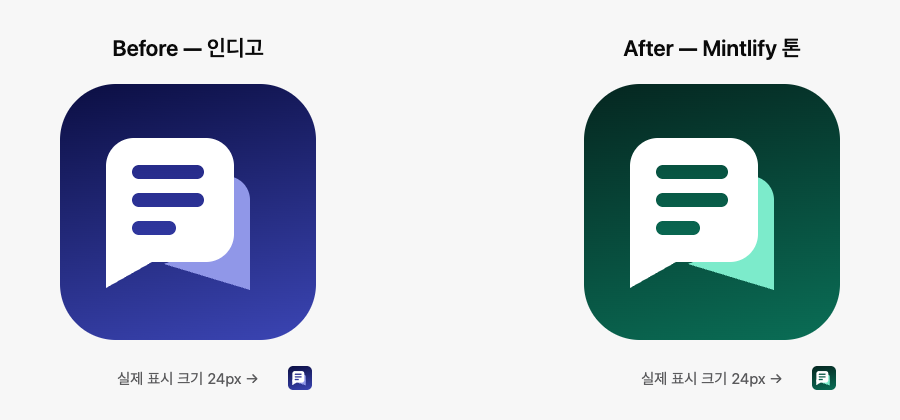
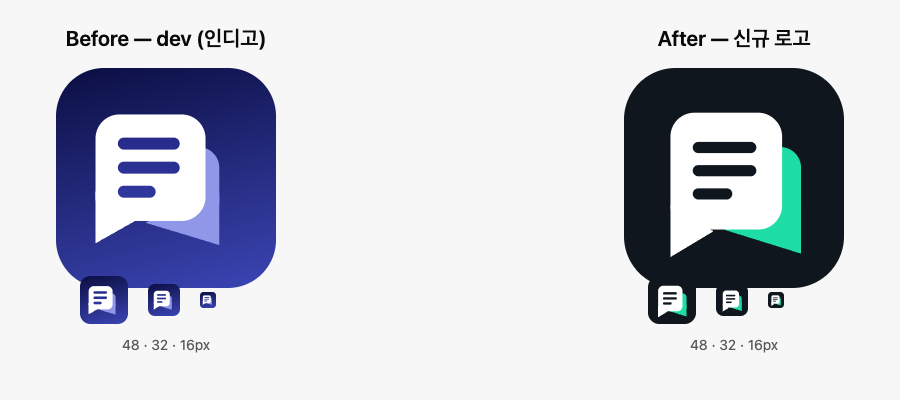
feat(fe): 브랜드 마크를 새 로고 시안에 맞춘다
앞 커밋의 딥그린 그라디언트 대신 시안대로 **평면 다크 잉크 + 선명한
에메랄드**로 간다. 시안 이미지에서 픽셀을 직접 샘플링해 값을 뽑았다.

- 바탕 `#0F161E` 평면 — 그라디언트를 걷어냈다. 16px에서 그라디언트는
  단색으로 뭉개지면서 색만 탁해진다.
- 뒤 말풍선 `#1DDCA5` — 연한 민트에서 선명한 에메랄드로.
- 텍스트 바를 바탕과 같은 잉크로. 시안에서 바는 녹색이 아니라 잉크다.
- 모서리 반경 28 → 30.

지오메트리도 시안에 맞췄다. 시안을 가로·세로로 스캔해 128 viewBox 좌표로
환산한 뒤, 내 렌더를 같은 방법으로 스캔해 행 단위로 대조하며 좁혔다.

- 흰 말풍선 x23 w64 → x27 w65, y27 h62 → y26 h68 (여백이 줄고 커진다)
- 초록 말풍선 오른쪽 끝 95 → 103, 꼬리도 그만큼 길게
- 텍스트 바 3개를 새 말풍선 안쪽으로 재배치, 두께 7 → 6.5

래스터 세 벌(`favicon.ico` 16/32/48, `apple-touch-icon.png` 180)도 같이
다시 뽑았다.

검증: build 통과 / lint 0 errors(무관한 기존 warning 1) / test 317/317
(`--no-file-parallelism`). 48·32·16px 축소본에서 형태 유지 확인.

Claude-Session: https://claude.ai/code/session_01Y7Nj8oiL699mPPNcQG7MMC

diff --git a/fe/src/shared/ui/brand-mark.tsx b/fe/src/shared/ui/brand-mark.tsx
@@ -3,11 +3,13 @@
  * Same geometry as `public/favicon.svg`; keep the two in sync.
  *
  * Brand-fixed colors, not design tokens: the mark must read identically
- * wherever it is placed, so it does not follow surface/text semantics.
- * The hues are the Mintlify-tone family (deep forest -> mint), but they are
- * written out here on purpose — a token change must not silently repaint
- * the app icon.
+ * wherever it is placed, so it does not follow surface/text semantics —
+ * a token change must not silently repaint the app icon. Flat fills, no
+ * gradients: the mark has to survive being drawn at 16px.
  */
+const INK = "#0F161E";
+const MINT = "#1DDCA5";
+
 export function BrandMark({
   size = 24,
   className,
@@ -23,36 +25,19 @@ export function BrandMark({
       aria-hidden="true"
       className={className}
     >
-      <defs>
-        <linearGradient id="brand-mark-bg" x1="0" y1="0" x2="0.294" y2="1.176">
-          <stop offset="0" stopColor="#052620" />
-          <stop offset="1" stopColor="#0A6E56" />
-        </linearGradient>
-        <linearGradient
-          id="brand-mark-bar"
-          gradientUnits="userSpaceOnUse"
-          x1="0"
-          y1="27"
-          x2="0"
-          y2="89"
-        >
-          <stop offset="0" stopColor="#064A3A" />
-          <stop offset="1" stopColor="#0A6E56" />
-        </linearGradient>
-      </defs>
-      <rect width="128" height="128" rx="28" fill="url(#brand-mark-bg)" />
-      <g fill="#7CEBCB">
-        <rect x="52" y="46" width="43" height="44" rx="12" />
-        <path d="M95 73v30L52 90z" />
+      <rect width="128" height="128" rx="30" fill={INK} />
+      <g fill={MINT}>
+        <rect x="52" y="46" width="51" height="48" rx="12" />
+        <path d="M103 75v33L58 94z" />
       </g>
       <g fill="#fff">
-        <rect x="23" y="27" width="64" height="62" rx="14" />
-        <path d="M23 72v30l23-13z" />
+        <rect x="27" y="26" width="65" height="68" rx="14" />
+        <path d="M27 80v30L52 95z" />
       </g>
-      <g fill="url(#brand-mark-bar)">
-        <rect x="36" y="40.5" width="36" height="7" rx="3.5" />
-        <rect x="36" y="54.5" width="36" height="7" rx="3.5" />
-        <rect x="36" y="68.5" width="22" height="7" rx="3.5" />
+      <g fill={INK}>
+        <rect x="40" y="43" width="37" height="6.5" rx="3.25" />
+        <rect x="40" y="56.5" width="37" height="6.5" rx="3.25" />
+        <rect x="40" y="70" width="23" height="6.5" rx="3.25" />
       </g>
     </svg>
   );

diff --git a/fe/index.html b/fe/index.html
@@ -6,7 +6,7 @@
     <link rel="icon" href="/favicon.ico" sizes="16x16 32x32 48x48" />
     <link rel="icon" href="/favicon.svg" type="image/svg+xml" />
     <link rel="apple-touch-icon" href="/apple-touch-icon.png" />
-    <meta name="theme-color" content="#052620" />
+    <meta name="theme-color" content="#0F161E" />
     <title>Damwha</title>
   </head>
   <body>

diff --git a/fe/CLAUDE.md b/fe/CLAUDE.md
@@ -102,7 +102,7 @@ Division of labor: `DESIGN.md` = how it should look and why · `src/index.css` =
 
 The 2026-08 retone moved the reference tone to Mintlify's **documentation** surfaces. It changed **colour, typeface, and radius only** — the dense `--text-*` scale, `--rail-nav`/`--rail-insight`, spacing, and component structure were deliberately left alone. Don't widen the body or the section rhythm to "match the reference": that is Mintlify's marketing rhythm, and this app is a three-pane dense reading shell. The brand mark was repainted in a **follow-up** commit, after the retone landed, so the indigo icon would stop fighting the mint accents.
 
-**The mark lives in four files, not two.** `shared/ui/brand-mark.tsx` and `public/favicon.svg` hold the geometry; `public/favicon.ico` (16/32/48, PNG-in-ICO) and `public/apple-touch-icon.png` (180×180) are rasters derived from that same geometry, and `index.html`'s `theme-color` is a fifth place the base hue appears. Change one, change all five — the rasters had already drifted once. There is no SVG rasteriser on this machine; they were regenerated by drawing the SVG onto a `<canvas>` in a browser and reading `toDataURL()`, which preserves the transparent corners that a page screenshot would flatten to white.
+**The mark lives in four files, not two.** `shared/ui/brand-mark.tsx` and `public/favicon.svg` hold the geometry; `public/favicon.ico` (16/32/48, PNG-in-ICO) and `public/apple-touch-icon.png` (180×180) are rasters derived from that same geometry, and `index.html`'s `theme-color` is a fifth place the base hue appears. Change one, change all five — the rasters had already drifted once. There is no SVG rasteriser on this machine; they were regenerated by drawing the SVG onto a `<canvas>` in a browser and reading `toDataURL()`, which preserves the transparent corners that a page screenshot would flatten to white. The fills are **flat** — no gradients — because the mark has to hold up at 16px.
 
 shadcn config (`components.json`): **new-york** style, `lucide` icons, aliases pointing at `@/shared/*`. Components follow the CVA pattern — variants defined with `class-variance-authority`, co-located with the component, e.g. `buttonVariants` exported alongside `Button`.
 
